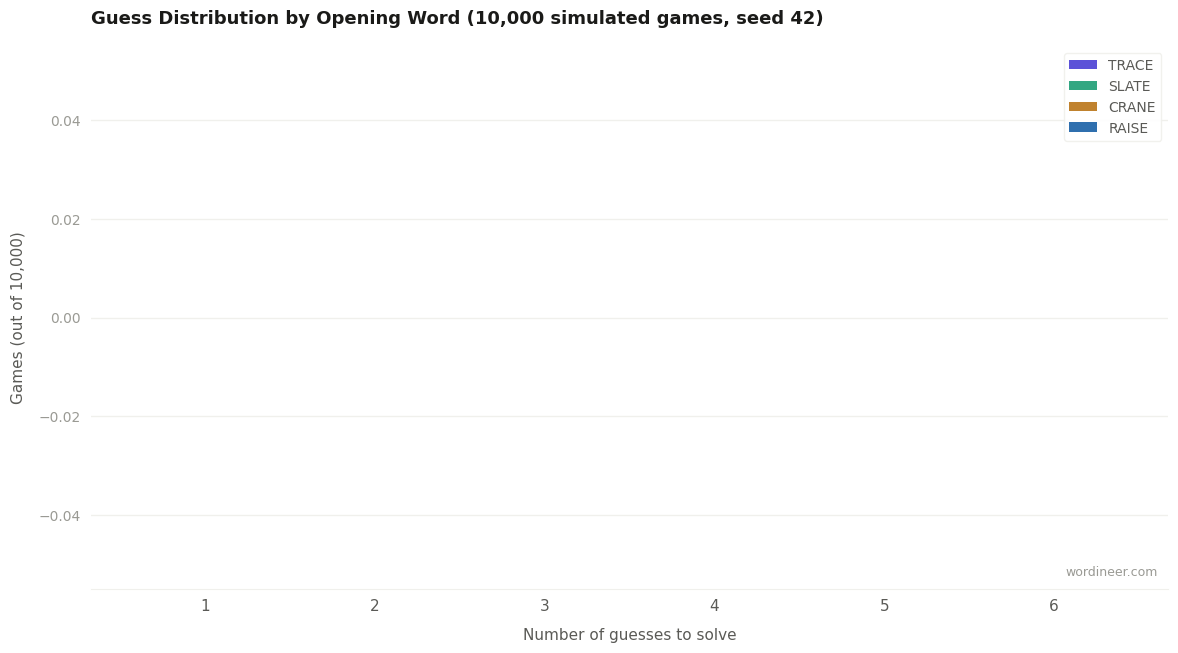
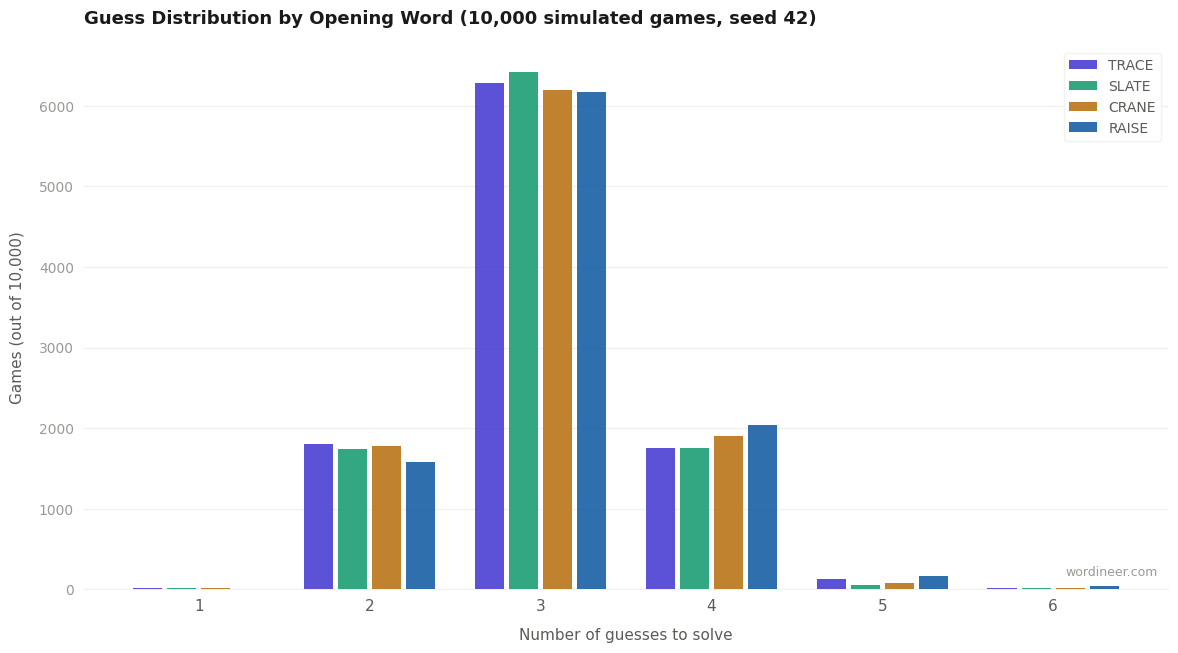
fix: dist keys are strings in benchmark.json — use str(g) lookup in chart script

diff --git a/research/wordle_charts.py b/research/wordle_charts.py
@@ -97,7 +97,7 @@ def chart_guess_distribution():
 
     for oi, (opener, color) in enumerate(zip(openers, bar_colors)):
         dist = data[opener]["distribution"]
-        counts = [dist.get(g, 0) for g in guess_counts]
+        counts = [dist.get(str(g), 0) for g in guess_counts]
         offset = (oi - len(openers) / 2 + 0.5) * width
         bars = ax.bar([xi + offset for xi in x], counts, width=width * 0.85,
                       color=color, label=opener, zorder=3, alpha=0.9)